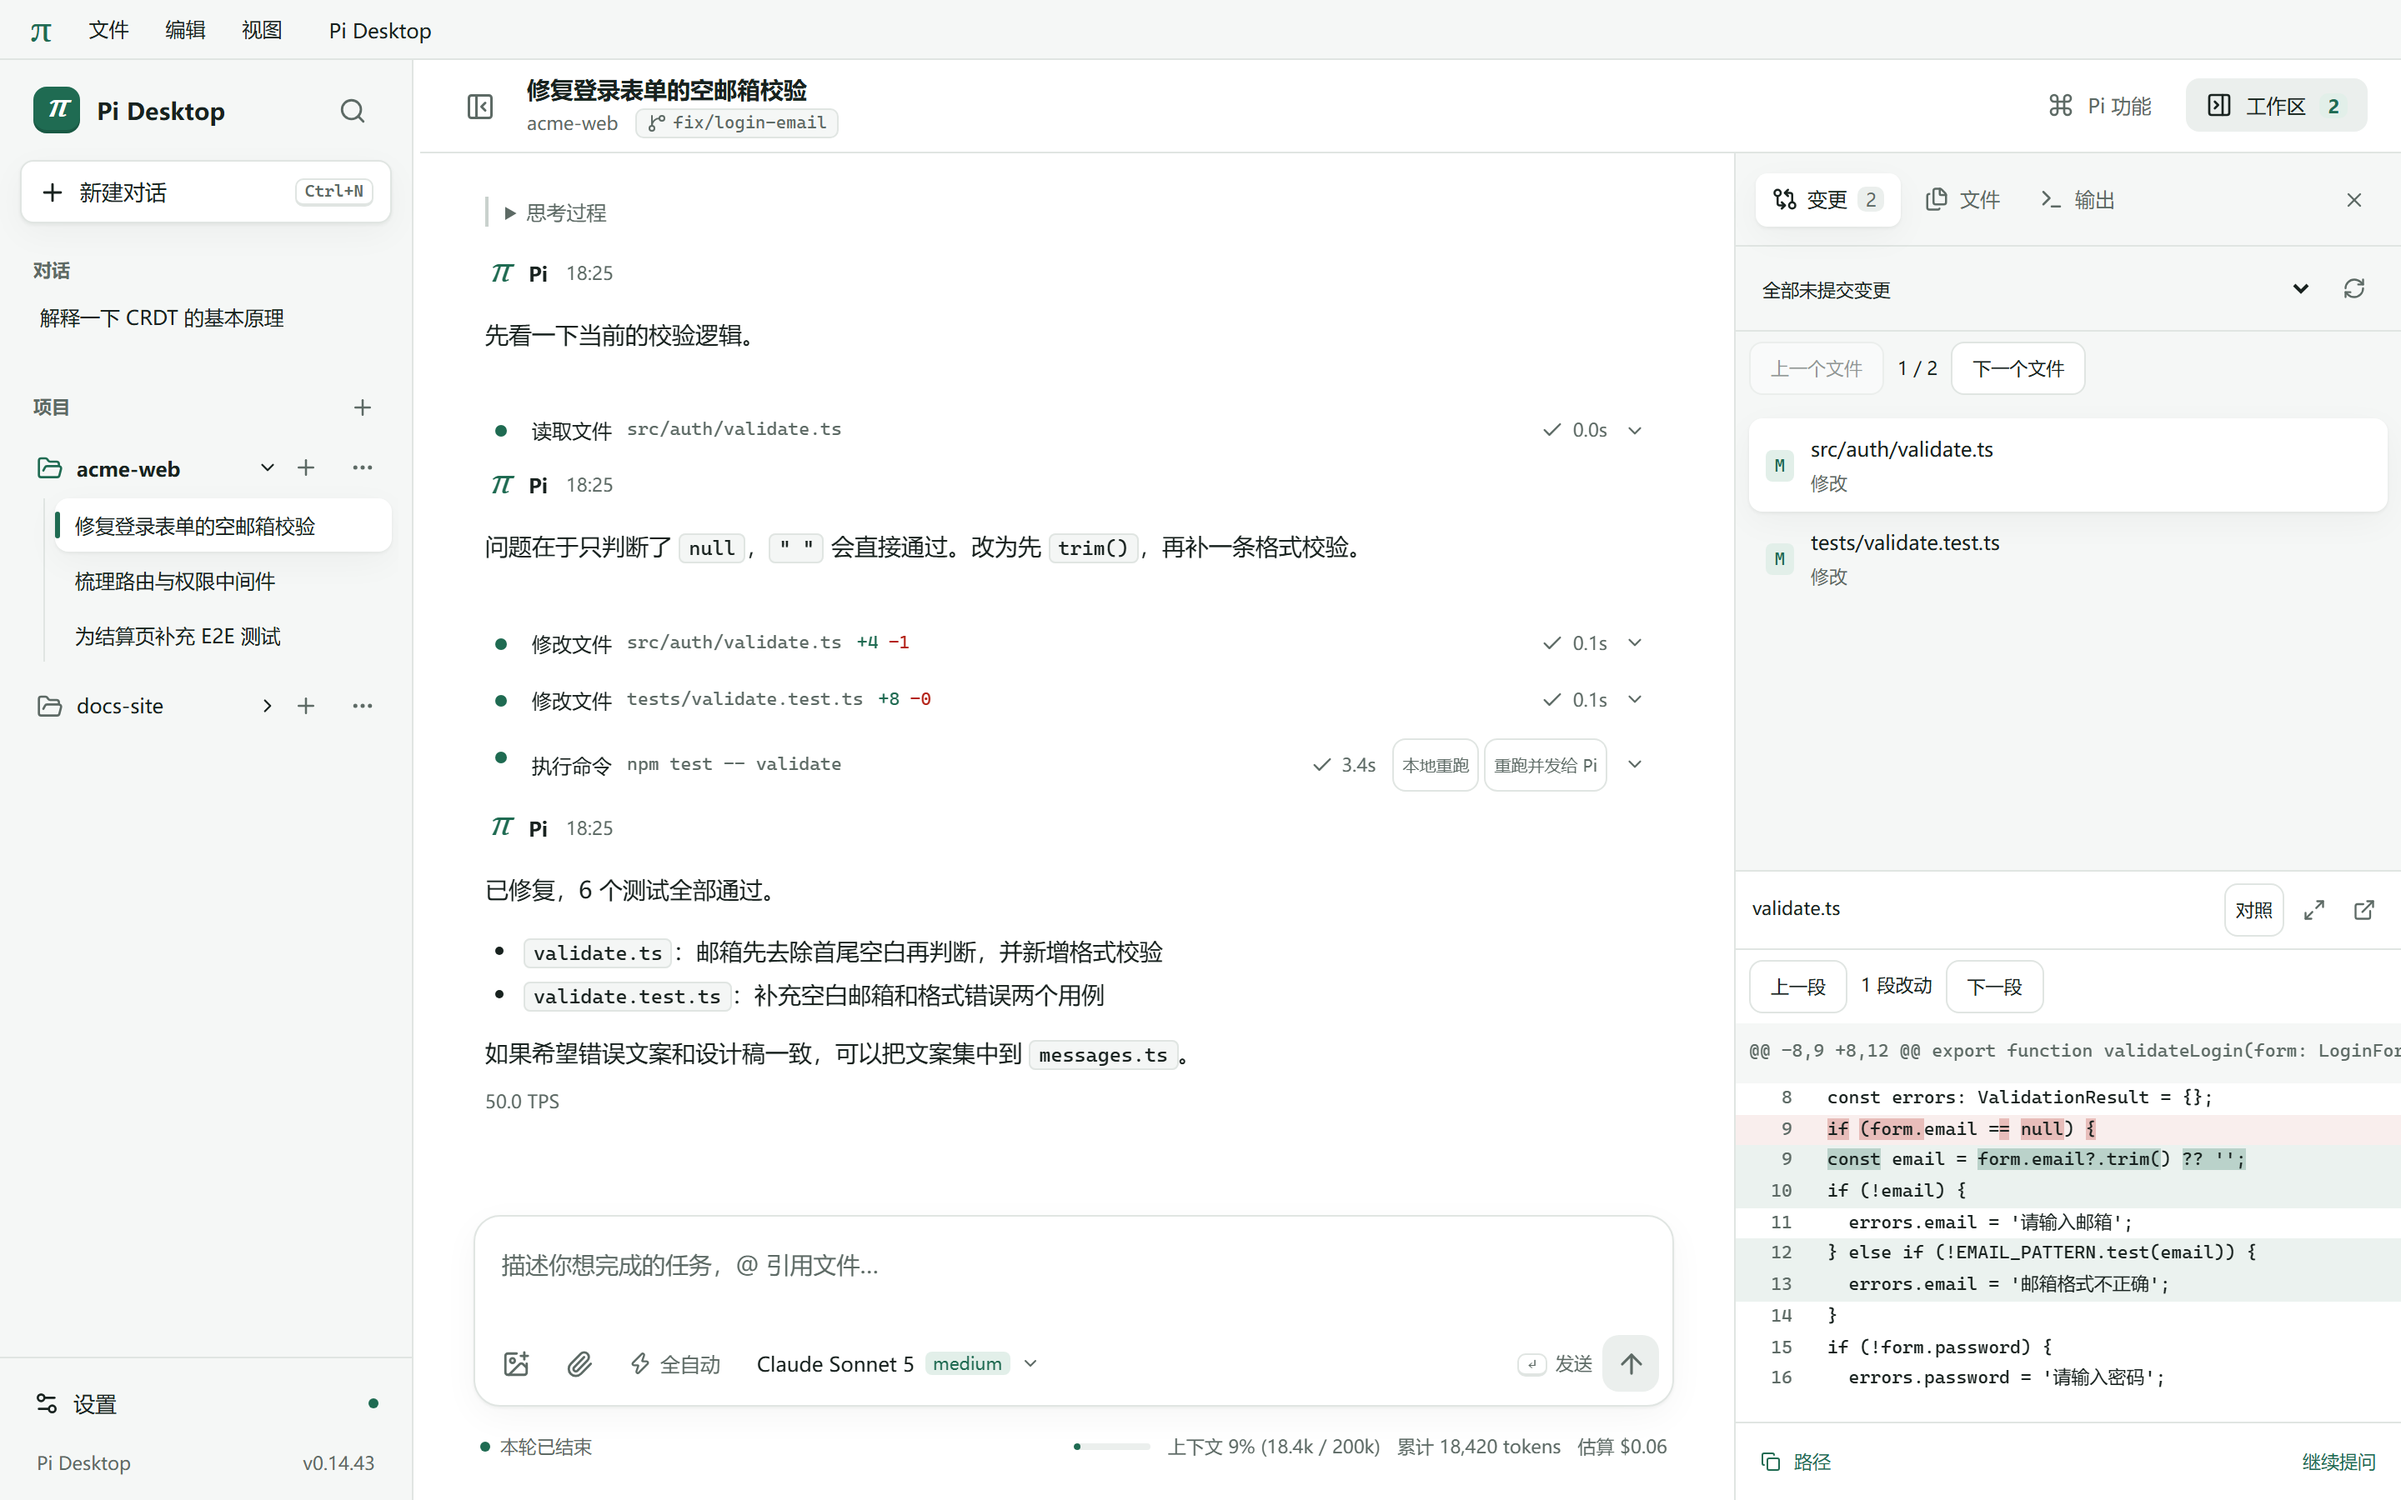
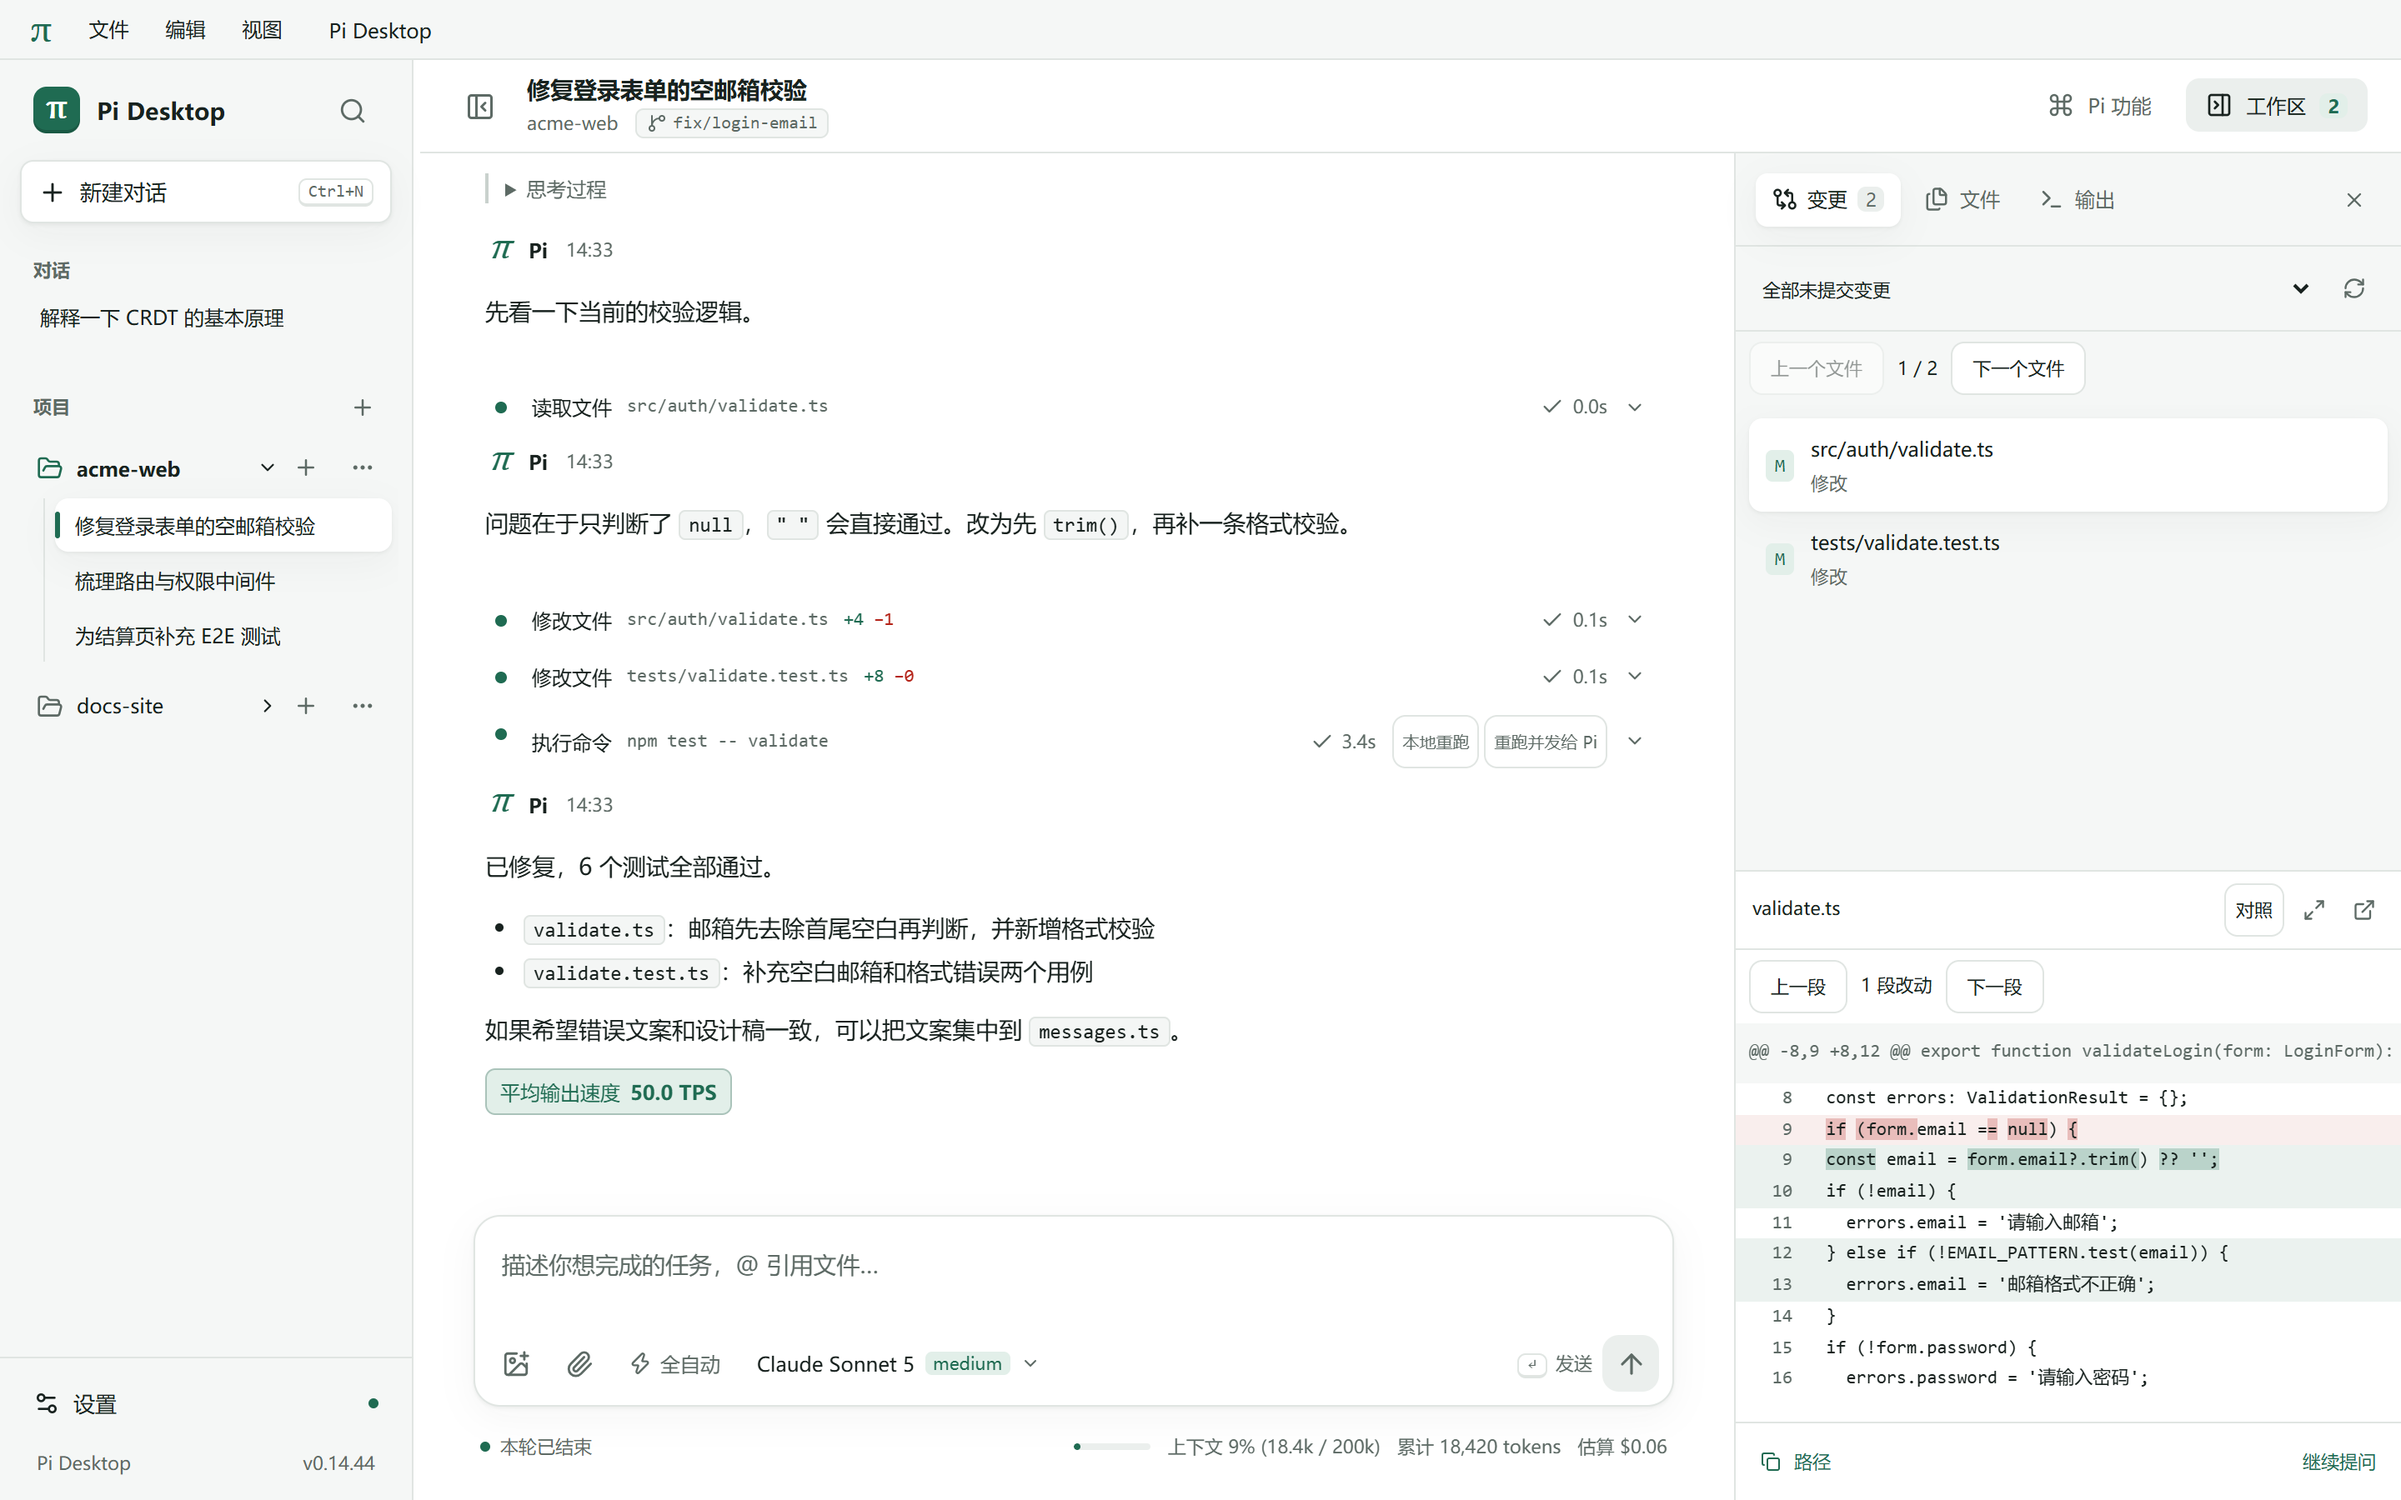
fix: make reply TPS easier to find (v0.14.45) [skip ci]

diff --git a/src/styles/features.css b/src/styles/features.css
@@ -359,9 +359,16 @@
   opacity: 1;
 }
 .reply-speed {
-  margin-top: 8px;
-  color: var(--muted);
-  font-size: calc(11px * var(--font-scale));
+  display: inline-flex;
+  align-items: center;
+  gap: 6px;
+  margin-top: 10px;
+  padding: 4px 8px;
+  border: 1px solid color-mix(in srgb, var(--accent) 28%, var(--line));
+  border-radius: 6px;
+  background: var(--accent-soft);
+  color: var(--accent);
+  font-size: calc(12px * var(--font-scale));
   font-variant-numeric: tabular-nums;
 }
 

diff --git a/src/components/conversation/Usage.tsx b/src/components/conversation/Usage.tsx
@@ -59,7 +59,7 @@ export function ReplySpeed({ message }: { message: Message }) {
       className="reply-speed"
       title={`平均输出速度：${output.toLocaleString()} tokens ÷ ${(duration / 1000).toFixed(2)} 秒（含等待模型响应时间，不含工具执行时间）`}
     >
-      {tps.toFixed(1)} TPS
+      平均输出速度 <strong>{tps.toFixed(1)} TPS</strong>
     </div>
   );
 }

diff --git a/README.md b/README.md
@@ -40,7 +40,7 @@ Sessions and workspaces stay on your machine. Model requests go to whichever pro
 
 - **Responsive long conversations** — Reuse completed Markdown sections during streaming and after replies finish. Browse and search history in pages, type without rerendering the conversation, and load draft image contents only for the selected chat. Environment setup and snapshot cleanup run after the window opens; idle chats stop updating their timers.
 - **Compact conversation history** — Thinking from one user turn shares a single collapsible section. Completed turns start collapsed by default (or stay expanded when **默认展开思考过程** is enabled in Settings); search reveals the original text, and you can collapse all thinking at once.
-- **Visible agent workflow** — Streamed thinking, tool calls with arguments and exit status, inline diffs for every edit, plus estimated current context/window capacity, clearly labeled cumulative session tokens, cache breakdown and estimated cost. Completed replies show average TPS when Pi provides output tokens and response duration; this includes response waiting time and excludes tool execution.
+- **Visible agent workflow** — Streamed thinking, tool calls with arguments and exit status, inline diffs for every edit, plus estimated current context/window capacity, clearly labeled cumulative session tokens, cache breakdown and estimated cost. Completed replies show average TPS in a labeled, colored badge when Pi provides output tokens and response duration; this includes response waiting time and excludes tool execution.
 - **Image attachments** — Paste or drop images even when the system omits their file type; selecting a project image through `@` also attaches the image. Supports PNG, JPEG, WebP and GIF, up to 8 images, 8 MiB each and 16 MiB combined.
 - **Per-turn undo** — In Git projects, a snapshot is taken before each run (stored outside your repo's `.git`). Open either the repository root or a subdirectory as your project. Repeated run-change refreshes reuse hashes of unchanged files. Undo a whole turn or roll back individual files. Side effects of shell commands are not covered.
 - **Tool approval** — Choose _Auto_, _Confirm changes_ or _Read-only_ per session. Approve once, always allow for the session, or deny with a reason.

diff --git a/README.zh-CN.md b/README.zh-CN.md
@@ -37,7 +37,7 @@
 
 - **更流畅的长对话**：流式回复及结束后都复用已完成的 Markdown 段落，历史跳转和查找按页显示；输入时不重渲染对话区，草稿图片内容只在选中会话后读取。环境准备和快照清理在窗口打开后执行，空闲会话停止计时更新。
 - **紧凑的对话历史**：同一用户轮次的思考过程合并为一个折叠区域，完成后默认收起（也可在设置中开启「默认展开思考过程」）；搜索可定位完整原文，也可一次收起所有思考过程。
-- **可视化智能体工作流**：实时显示思考过程、工具调用参数与退出状态，每次修改都有内联 Diff，并区分当前上下文/窗口容量与会话累计 Token，提供输入、输出、缓存明细和估算费用。Pi 提供输出 Token 数和耗时时，完整回复下方显示平均 TPS；包含等待模型响应的时间，不包含工具执行时间。
+- **可视化智能体工作流**：实时显示思考过程、工具调用参数与退出状态，每次修改都有内联 Diff，并区分当前上下文/窗口容量与会话累计 Token，提供输入、输出、缓存明细和估算费用。Pi 提供输出 Token 数和耗时时，完整回复下方以带底色的“平均输出速度”标识显示 TPS；包含等待模型响应的时间，不包含工具执行时间。
 - **图片附件**：粘贴和拖入图片时自动识别格式，系统未提供文件类型也可使用；通过 `@` 选择项目图片会添加为图片附件。支持 PNG、JPEG、WebP、GIF，每条消息最多 8 张，单张 8 MiB、总计 16 MiB。
 - **按轮次撤销**：在 Git 项目中，每次运行前建立快照（存放在应用数据目录，不改动项目的 `.git`），支持将仓库根目录或其子目录作为项目打开；反复刷新本轮变更时复用未变化文件的哈希，可撤销整轮修改或单独回滚文件。命令产生的外部副作用不在撤销范围内。
 - **工具审批**：每个会话可选「全自动」「确认修改」或「只读」。可以允许一次、本会话总是允许，或填写原因拒绝。

diff --git a/docs/releases/v0.14.45.md b/docs/releases/v0.14.45.md
@@ -1,0 +1,7 @@
+# Pi Desktop v0.14.45
+
+- Make reply TPS easier to find with an “平均输出速度” label, a colored background, larger text and a bold speed value below completed replies.
+
+## 中文
+
+- 完整回复下方的 TPS 改为带底色的“平均输出速度”标识，放大字号并加粗数值，便于找到。
